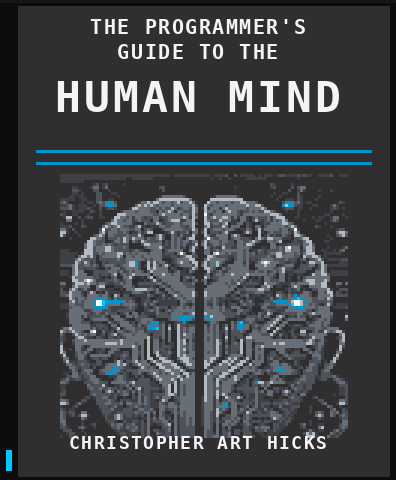
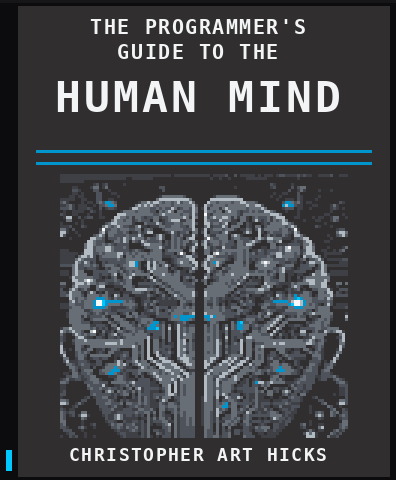
Wiki: the GUIDE cover's author set lower, clear of the art (the user, 2026-10-19), as the app and the Tab5 now set it

Changed region(s): [[0.1515, 0.9062, 0.5152, 0.9688], [0.6667, 0.9062, 0.8182, 0.9688], [0.5455, 0.9062, 0.6364, 0.9688]]

diff --git a/wiki/covers.py b/wiki/covers.py
@@ -46,11 +46,11 @@ def guide():
     im = book("guide_cover.png"); d = ImageDraw.Draw(im); w = im.width
     words = g["title"].split(" "); big = " ".join(words[-2:]); rest = words[:-2]
     cut = min(range(1, len(rest)), key=lambda k: abs(len(" ".join(rest[:k])) - len(" ".join(rest[k:])))) if len(rest) > 1 else len(rest)
-    ink = "#f3f4f6"                                  # placed as the app places them (at 2x there: 10, 27, 50, 288)
+    ink = "#f3f4f6"                                  # placed as the app places them (at 2x there: 10, 27, 50, 296)
     spaced(d, " ".join(rest[:cut]), font(20), 15, w, ink, 1.5)
     spaced(d, " ".join(rest[cut:]), font(20), 40, w, ink, 1.5)
     spaced(d, big, font(43), 72, w, ink, 3)
-    spaced(d, g.get("author", ""), font(18), 432, w, ink, 1.5)
+    spaced(d, g.get("author", ""), font(18), 444, w, ink, 1.5)   # under the art, clear of it (the user, 2026-10-19)
     return im
 
 
